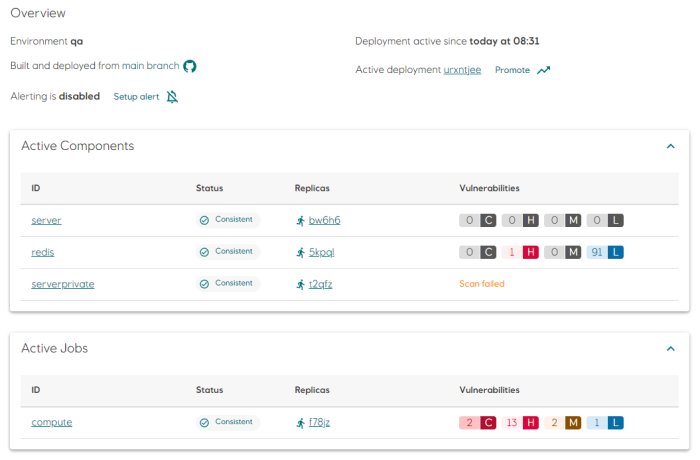
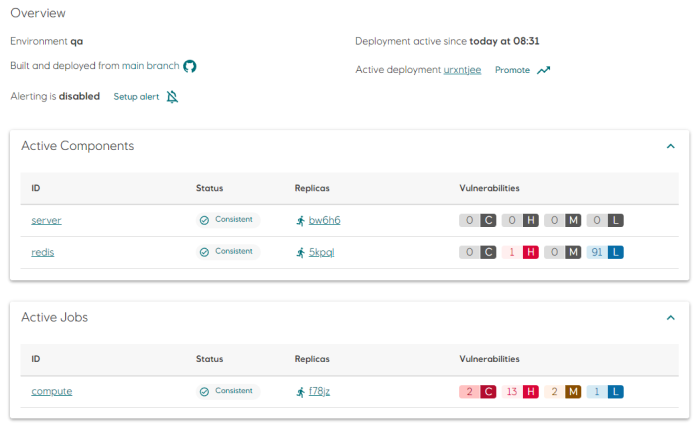
remove outdated docs about vuln scanning

diff --git a/public-site/docs/docs/topic-vulnerabilities/index.md b/public-site/docs/docs/topic-vulnerabilities/index.md
@@ -6,23 +6,7 @@ title: Vulnerability Scanning
 
 The Radix platform will scan applications running in our Platform for vulnerabilities. It is also expected that the developer team are responsible for keeping their code up to date and without critical vulnerabilities.
 
-## Build-deploy pipeline scan
-
-Images built with the `build-deploy` pipeline are scanned for vulnerabilities as the last step the job.
-
-![Scan Steps](./scan-build-deploy.png "Scan Steps")
-
-Detailed information about vulnerabilities can be accessed by clicking on the individual `Scan-` steps. Vulnerabilities are grouped by severity and sorted by CVSS score.
-
-![Scan Step Details](./scan-build-deploy-details.png "Scan Step Details")
-
-:::tip
-Scanning as part of the `build-deploy` pipeline will be removed in a future release.
-:::
-
-## Scheduled scan of deployed images
-
-All components and jobs are scanned immediately after a successful deployment. The scan is not limited to images built by Radix, but will also scan components and jobs using images from public registries. Images stored in registries that require authentication are currently not scanned, and will show as `Scan failed` in the environment page (see screenshot below).
+All components and jobs are scanned immediately after a successful deployment. The scan is not limited to images built by Radix, and will also scan components and jobs using images from public registries.
 
 Radix will do a rescan of all images on a daily schedule in order to detect and report new vulnerabilities.
 
